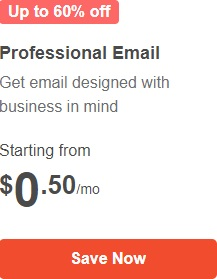
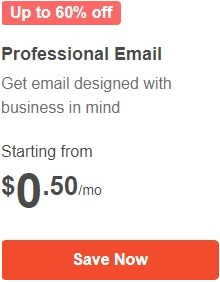
Add borders to picture.

diff --git a/blog/2023/11/25/17/00/book-info-20231125-1700.php b/blog/2023/11/25/17/00/book-info-20231125-1700.php
@@ -1,4 +1,4 @@
 <?php
   $index->content .= 
-           "<p>Today I received an email from <span class=\"cod\">Namecheap &lt;hello@namecheap.com&gt;</span> with the following subject line:\"Black Friday Sale — Get up to 99% off\". From their list of deals, I was curious about this one:</p><div><img src=\"/blog/2023/11/25/17/00/img/nameCheapProfessionalEmailBlackFridayDeal.jpg\" alt=\"Namecheap Professional Email Black Friday deal\" width=\"217\" height=\"279\"></div><div>Published: 5:00 PM GMT · Nov 25, 2023</div>\n";
+           "<p>Today I received an email from <span class=\"cod\">Namecheap &lt;hello@namecheap.com&gt;</span> with the following subject line:\"Black Friday Sale — Get up to 99% off\". From their list of deals, I was curious about this one:</p><div><img src=\"/blog/2023/11/25/17/00/img/nameCheapProfessionalEmailBlackFridayDeal.jpg\" alt=\"Namecheap Professional Email Black Friday deal\" width=\"220\" height=\"282\"></div><div>Published: 5:00 PM GMT · Nov 25, 2023</div>\n";
 ?>
